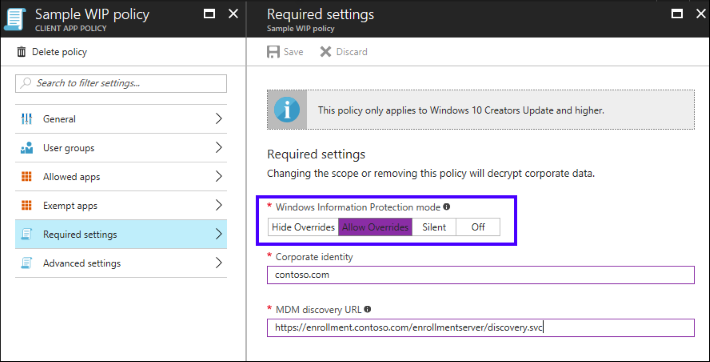
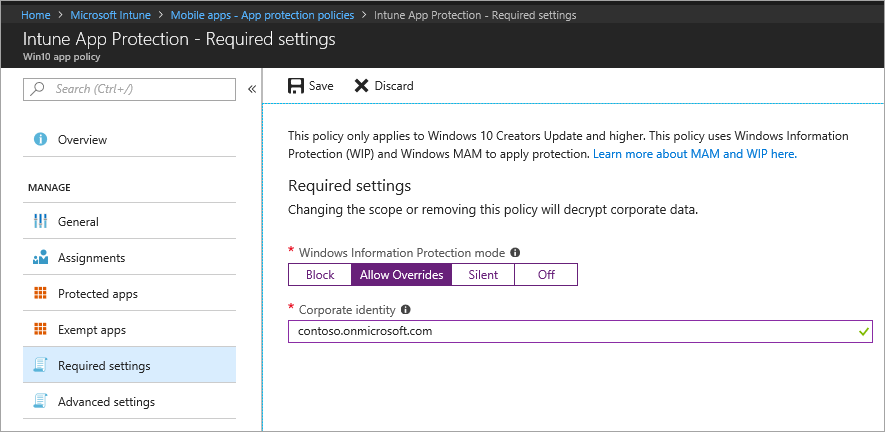
2439088 WIP updates to UI

diff --git a/intune/windows-information-protection-policy-create.md b/intune/windows-information-protection-policy-create.md
@@ -7,7 +7,7 @@ description: Create and deploy Windows Information Protection (WIP) app protecti
 keywords:
 author: msmimart
 ms.author: mimart
-manager: doubeby
+manager: dougeby
 ms.date: 03/02/2018
 ms.topic: article
 ms.prod:
@@ -39,7 +39,7 @@ You must understand a few concepts when adding a WIP policy:
 
 ### List of allowed and exempt apps
 
--   **Allowed apps:** These apps are the apps that need to adhere to this policy.
+-   **Protected apps:** These apps are the apps that need to adhere to this policy.
 
 -   **Exempt apps:** These apps are exempt from this policy and can access corporate data without restrictions.
 
@@ -69,7 +69,7 @@ After you set up Intune in your organization, you can create a WIP-specific poli
 2. Choose **All Services** > **Intune**.
 3. Select **Mobile apps** on the **Microsoft Intune** blade.
 4. Select **App protection policies** on the **Mobile apps** blade.
-5. Click **Add a policy** to display the **Add a policy** blade.
+5. Select **Add a policy** to display the **Add a policy** blade.
 6. Add the following values:
     - **Name:** Type a name (required) for your new policy.
     - **Description:** (Optional) Type a description.
@@ -77,7 +77,7 @@ After you set up Intune in your organization, you can create a WIP-specific poli
     - **Enrollment state:** Choose **Without enrollment** as the enrollment state for your policy.
 7.  Choose **Create**. The policy is created and appears in the table on the **App protection policies** blade.
 
-## To add recommended apps to your allowed apps list
+## To add recommended apps to your protected apps list
 
 1. Select **Mobile apps** on the **Microsoft Intune** blade.
 2. Select **App protection policies** on the **Mobile apps** blade.
@@ -88,7 +88,7 @@ After you set up Intune in your organization, you can create a WIP-specific poli
 7. Click **OK**. The **Protected apps** blade is updated showing all selected apps.
 8. Click **Save**.
 
-## Add a Store app to your allowed apps list
+## Add a Store app to your protected apps list
 
 **To add a Store app**
 1. Select **Mobile apps** on the **Microsoft Intune** blade.
@@ -101,7 +101,7 @@ After you set up Intune in your organization, you can create a WIP-specific poli
 9. Click **OK**. The **Protected apps** blade is updated showing all selected apps.
 10. Click **Save**.
 
-## Add a desktop app to your allowed apps list
+## Add a desktop app to your protected apps list
 
 **To add a desktop app**
 1. Select **Mobile apps** on the **Microsoft Intune** blade.
@@ -124,7 +124,7 @@ WIP Learning is a report that allows you to monitor your WIP-enabled apps and WI
 <!-- 1631908 -->
 In addition to viewing information about WIP-enabled apps, you can view a summary of the devices that have shared work data with websites. With this information, you can determine which websites should be added to group and user WIP policies. The summary shows which website URLs are accessed by WIP-enabled apps.
 
-When working with WIP-enabled apps and WIP-unknown apps, we recommend that you start with **Silent** or **Allow Overrides** while verifying with a small group that you have the right apps on your allowed apps list. After you're done, you can change to your final enforcement policy, **Block**.
+When working with WIP-enabled apps and WIP-unknown apps, we recommend that you start with **Silent** or **Allow Overrides** while verifying with a small group that you have the right apps on your protected apps list. After you're done, you can change to your final enforcement policy, **Block**.
 
 ### What are the protection modes?
 
